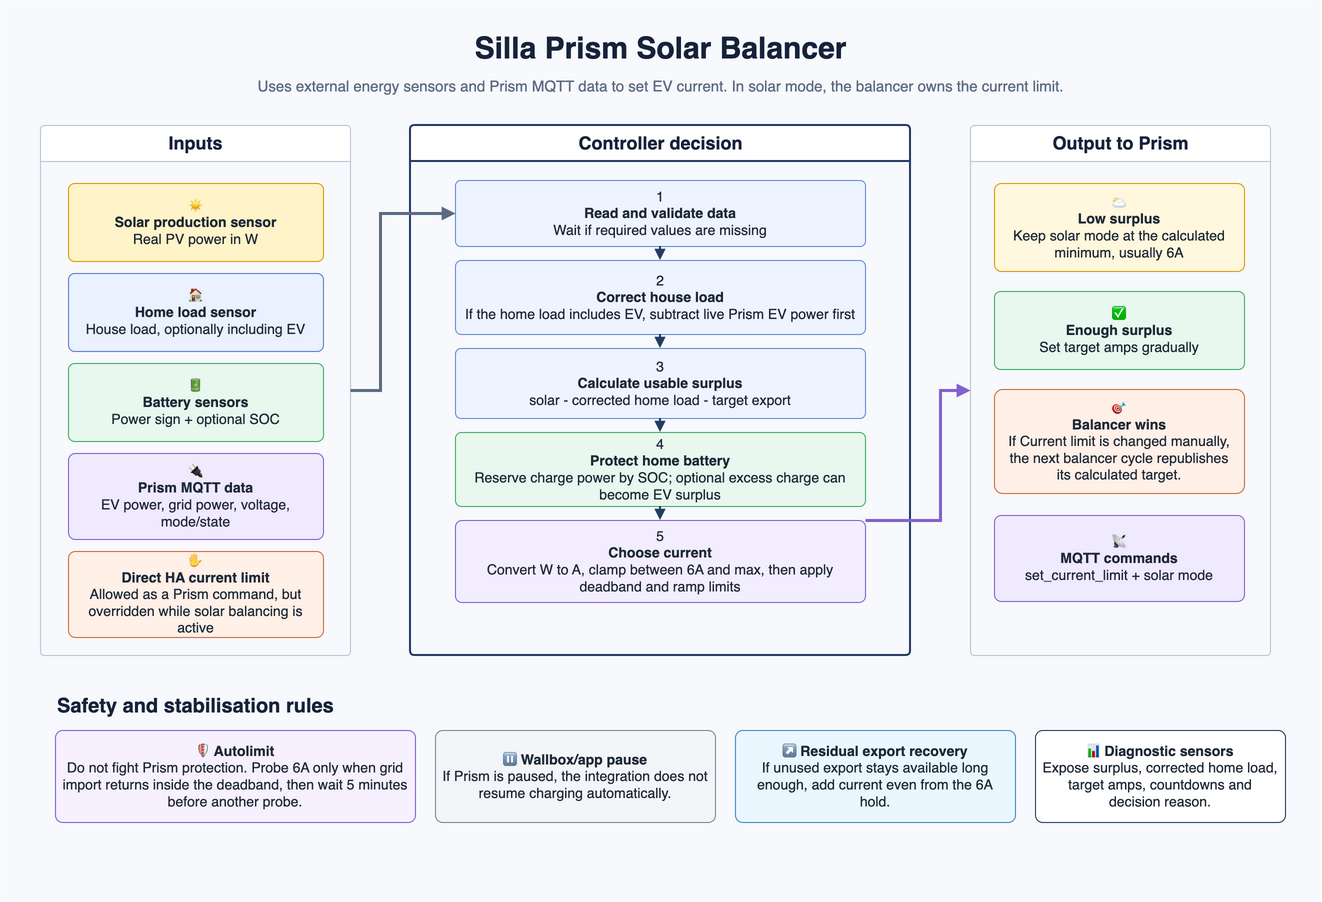
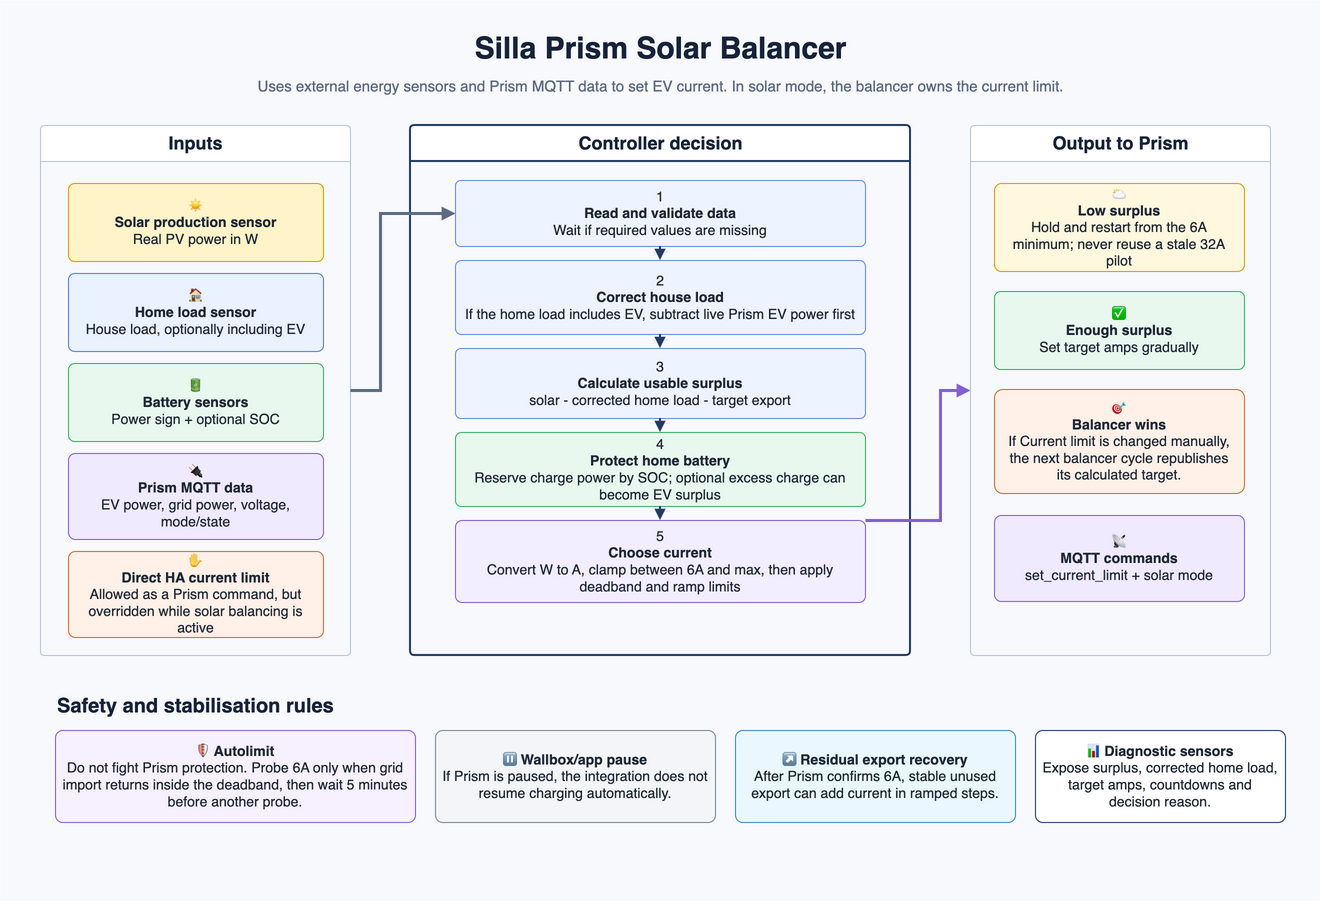
Restart solar balancing from minimum current

Changed region(s): [[0.5582, 0.8071, 0.7753, 0.9002], [0.7443, 0.2173, 0.9304, 0.3104]]

diff --git a/custom_components/silla_prism/switch.py b/custom_components/silla_prism/switch.py
@@ -153,6 +153,7 @@ class PrismSolarBatteryBalance(SwitchEntity, RestoreEntity):
         self._ramp_direction = "none"
         self._current_limit_reason = "waiting_data"
         self._charging_from_surplus = False
+        self._restart_from_min_current = False
         self._last_autolimit_recovery: datetime | None = None
         self._surplus_since: datetime | None = None
         self._residual_export_since: datetime | None = None
@@ -285,6 +286,7 @@ class PrismSolarBatteryBalance(SwitchEntity, RestoreEntity):
         self._reset_start_delay()
         self._reset_residual_export()
         self._charging_from_surplus = False
+        self._restart_from_min_current = False
         self._update_solar_balance_state(
             SOLAR_BALANCE_DISABLED,
             0,
@@ -448,6 +450,7 @@ class PrismSolarBatteryBalance(SwitchEntity, RestoreEntity):
             self._reset_start_delay()
             self._reset_residual_export()
             self._charging_from_surplus = False
+            self._restart_from_min_current = False
             self._track_grid_error()
             self._update_solar_balance_state(
                 SOLAR_BALANCE_EXTERNAL_PAUSED,
@@ -474,6 +477,7 @@ class PrismSolarBatteryBalance(SwitchEntity, RestoreEntity):
             self._reset_start_delay()
             self._reset_residual_export()
             self._charging_from_surplus = False
+            self._restart_from_min_current = False
             self._track_grid_error()
             self._update_solar_balance_state(
                 SOLAR_BALANCE_WAITING_SOLAR_MODE,
@@ -499,8 +503,9 @@ class PrismSolarBatteryBalance(SwitchEntity, RestoreEntity):
         if target_power < min_power:
             # Type 2 charging cannot run below 6A. In low-surplus situations we
             # keep Prism in solar mode at the minimum, unless Prism itself is in
-            # autolimit, and separately recover stable export when it appears.
+            # autolimit. The next restart is forced to begin from 6A.
             self._reset_start_delay()
+            self._restart_from_min_current = True
             surplus_current = max(target_power / watts_per_amp, 0)
             if self._reported_mode == MODE_AUTOLIMIT:
                 if self._can_recover_from_autolimit():
@@ -595,6 +600,33 @@ class PrismSolarBatteryBalance(SwitchEntity, RestoreEntity):
         target_current = floor(target_power / (voltage * self._phases))
         target_current = max(MIN_CHARGE_CURRENT, min(target_current, self._max_current))
         self._raw_target_current = target_current
+        if self._should_restart_from_min_current():
+            self._reset_residual_export()
+            self._current_limit_reason = "restart_min_current"
+            self._update_solar_balance_state(
+                SOLAR_BALANCE_CHARGING_SURPLUS,
+                MIN_CHARGE_CURRENT,
+                available_power,
+                target_power,
+                0,
+                battery_power,
+                battery_charge_power,
+                battery_discharge_power,
+                battery_power_to_exclude,
+                battery_reserve_power,
+                battery_reserve_shortfall_power,
+                surplus_source=surplus_source,
+                raw_target_current=self._raw_target_current,
+                target_current=MIN_CHARGE_CURRENT,
+                theoretical_target_current=target_current,
+                current_limit_reason="restart_min_current",
+                decision_reason="charging_surplus",
+            )
+            await self._async_publish_current(MIN_CHARGE_CURRENT)
+            await self._async_publish_mode(MODE_SOLAR)
+            self._charging_from_surplus = True
+            return
+
         target_current = self._apply_current_optimizations(
             target_current,
             watts_per_amp,
@@ -785,21 +817,11 @@ class PrismSolarBatteryBalance(SwitchEntity, RestoreEntity):
         return target_current
 
     def _get_low_surplus_target_current(self, watts_per_amp: float) -> int:
-        """Recover current from persistent export while held at the 6A minimum."""
-        last_current = self._get_reference_current() or MIN_CHARGE_CURRENT
+        """Hold at the 6A minimum while there is not enough surplus to restart."""
         self._track_grid_error()
-        if not self._track_residual_export():
-            self._current_limit_reason = "target_current"
-            return MIN_CHARGE_CURRENT
-
-        step = self._get_proportional_increase_step(watts_per_amp)
-        target_current = min(
-            self._max_current,
-            max(MIN_CHARGE_CURRENT, last_current) + step,
-        )
-        self._reset_residual_export()
-        self._current_limit_reason = "residual_export_recovery"
-        return target_current
+        self._track_residual_export()
+        self._current_limit_reason = "target_current"
+        return MIN_CHARGE_CURRENT
 
     def _get_battery_charge_target_current(
         self,
@@ -848,7 +870,26 @@ class PrismSolarBatteryBalance(SwitchEntity, RestoreEntity):
 
     def _get_reference_current(self) -> int | None:
         """Return the best known wallbox current limit for ramp decisions."""
+        if self._restart_from_min_current:
+            return MIN_CHARGE_CURRENT
         return self._reported_current_limit or self._last_current_command
+
+    def _should_restart_from_min_current(self) -> bool:
+        """Return True until Prism has acknowledged a 6A restart after low surplus."""
+        if not self._restart_from_min_current:
+            return False
+
+        if self._reported_current_limit is not None:
+            if self._reported_current_limit <= MIN_CHARGE_CURRENT:
+                self._restart_from_min_current = False
+                return False
+            return True
+
+        if self._last_current_command == MIN_CHARGE_CURRENT:
+            self._restart_from_min_current = False
+            return False
+
+        return True
 
     def _track_grid_error(self) -> None:
         """Update import/export diagnostics relative to the configured buffer."""

diff --git a/custom_components/silla_prism/solar_balance.py b/custom_components/silla_prism/solar_balance.py
@@ -240,6 +240,12 @@ def describe_solar_balance_state(
                 "di aumentare.",
                 context,
             )
+        if reason == "restart_min_current":
+            return _with_context(
+                "Riparto da 6A: dopo un blocco per surplus basso non uso il "
+                "vecchio limite corrente come base.",
+                context,
+            )
         if reason == "waiting_solar_mode":
             return _with_context(
                 "Attendo: Prism non e in modalita solare, quindi non comando "
@@ -342,6 +348,12 @@ def describe_solar_balance_state(
             f"Waiting {remaining}s: surplus must stay stable before increasing.",
             context,
         )
+    if reason == "restart_min_current":
+        return _with_context(
+            "Restarting from 6A: after a low-surplus block, the old current "
+            "limit is not used as the ramp base.",
+            context,
+        )
     if reason == "waiting_solar_mode":
         return _with_context(
             "Waiting: Prism is not in solar mode, so the integration will not "
@@ -410,6 +422,11 @@ def _describe_decision_context(state: SolarBalanceState, is_italian: bool) -> st
         if is_italian:
             return "Vincolo: intervallo minimo tra aumenti corrente."
         return "Constraint: minimum current increase interval."
+
+    if state.current_limit_reason == "restart_min_current":
+        if is_italian:
+            return "Vincolo: ripartenza prudente dal minimo Type 2."
+        return "Constraint: conservative restart from the Type 2 minimum."
 
     if state.current_limit_reason in ("ramp_up_limited", "ramp_down_limited"):
         if is_italian:

diff --git a/tests/test_solar_balance.py b/tests/test_solar_balance.py
@@ -241,6 +241,19 @@ class SolarBalanceHelperTest(TestCase):
 
         self.assertIn("not in solar mode", summary)
 
+    def test_decision_summary_reports_restart_from_minimum(self) -> None:
+        summary = describe_solar_balance_state(
+            SolarBalanceState(
+                status=SOLAR_BALANCE_CHARGING_SURPLUS,
+                target_current=6,
+                current_limit_reason="restart_min_current",
+                reported_current_limit=32,
+            )
+        )
+
+        self.assertIn("Restarting from 6A", summary)
+        self.assertIn("old current limit", summary)
+
     def test_decision_summary_handles_disabled_and_waiting_data(self) -> None:
         self.assertEqual(
             describe_solar_balance_state(

diff --git a/CHANGELOG.md b/CHANGELOG.md
@@ -1,5 +1,15 @@
 # Changelog
 
+## 0.9.23
+
+- Force solar balancing restarts to begin from 6A after a low-surplus block.
+  Stale Prism `pilot` values or manual `Current limit` changes such as 32A are
+  no longer used as the ramp base after the controller has held/blocked charging
+  for insufficient surplus.
+- Residual export tracking still updates diagnostics, but low-surplus recovery
+  no longer jumps directly above the Type 2 minimum.
+- Added a decision summary for the protected 6A restart path.
+
 ## 0.9.22
 
 - Changed solar balancing ownership: when Prism is in solar mode and the solar

diff --git a/TROUBLESHOOTING.md b/TROUBLESHOOTING.md
@@ -17,7 +17,8 @@ Check `Decision summary` and `Decision reason`.
   has not confirmed it yet. Check delivered current and output power to see
   whether the car is actually charging above 6A.
 - If `Unused export power` is above the configured residual export threshold for
-  long enough, residual export recovery can raise current above 6A.
+  long enough after Prism has confirmed 6A, residual export recovery can raise
+  current above 6A in later ramped steps.
 
 ## The wallbox is in autolimit and does not restart
 
